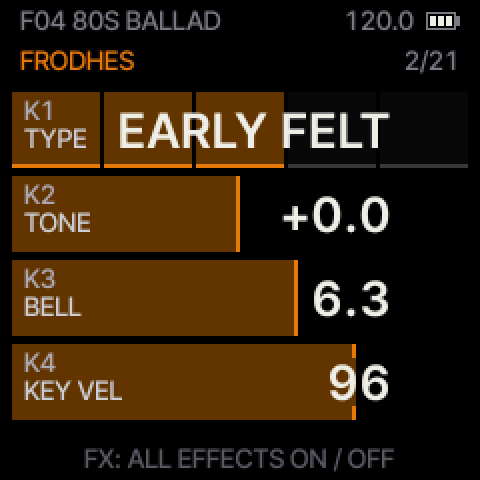
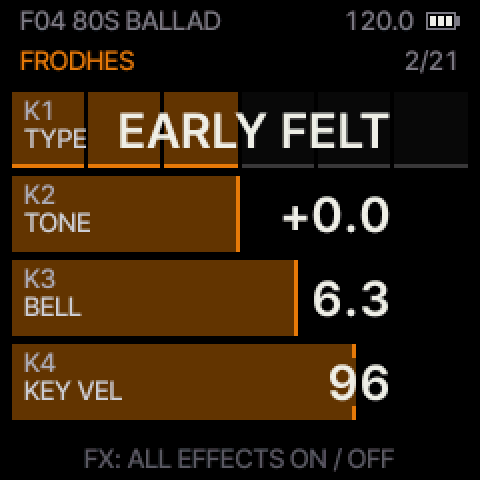
MARIMBA P6 (docs, DRAFT 0.9.4): manual, README, screenshots, emulator, release notes
- MANUAL: the MARIMBA section checked against params.c / eng_pages.h / presets.c / bars.c / marimba.json and
  tools/marimba_va.py (decays C2 1.7 / C4 0.7 / C6 0.3 / C7 0.1 s, bloom, MUTE 127 = 60 dB in ~0.06 s); MUTE kept
  from the last TYPE (5.0 from a Rhodes preset), the presets 0; no motor page; the 0.9.3 settings conversion; VOICE
  pages / named spots / ALGORITHM / CC 9, 116, 120-123 rows cover MARIMBA; offsets and CPU marked DRAFT in comments.
- README: piano.png ?v=0.9.4, bars.c and gen_bars.py in the Build map.
- Screenshots (framebuffer colours): piano-marimba, voice1-marimba, voice2-marimba (new); piano, piano-vibes (TYPE
  card now 6 blocks); tools/manual_shots.py makes the MARIMBA pages (CC 79 127 walk, F15).
- Emulator: ?selftest&marimba (CC 79 127), the guide's ALGORITHM line, the page description. Not published.
- docs/releases/v0.9.4.md: DRAFT from git log v0.9.3..marimba (no version bump, links unchanged).

Tested: make test (all ok), make pytest (1060 passed, 12 xfailed), test_docs_vs_code, web/build.sh + Playwright
Chromium/WebKit at 1400 and 390 px (?selftest&marimba rms -25.4 dB vs -27.6 VIBES / -28.2 Rhodes, no errors, no
horizontal scroll; FRODHES / VOICE 1/2 / VOICE 2/2 shown on MARIMBA, 21 pages). Not tested: the FM-1 (host only).
No firmware/ change.

Claude-Session: https://claude.ai/code/session_01Dz8MB3aMWQ3NXyFVXtBmgi

diff --git a/web/index.html b/web/index.html
@@ -4,7 +4,7 @@
 <meta charset="utf-8">
 <meta name="viewport" content="width=device-width, initial-scale=1">
 <title>Frodhes emulator</title>
-<meta name="description" content="Frodhes, a physically modelled Fender Rhodes for the M-VAVE FM-1, running in the browser: the same firmware code, compiled to WebAssembly.">
+<meta name="description" content="Frodhes, a physically modelled Fender Rhodes, vibraphone and marimba for the M-VAVE FM-1, running in the browser: the same firmware code, compiled to WebAssembly.">
 <link rel="preconnect" href="https://fonts.googleapis.com">
 <link rel="preconnect" href="https://fonts.gstatic.com" crossorigin>
 <link href="https://fonts.googleapis.com/css2?family=DotGothic16&display=swap" rel="stylesheet">
@@ -108,7 +108,7 @@
     <dt>KNOB 1–4</dt><dd>the 4 cards</dd>
     <dt>SELECT</dt><dd>pages</dd>
     <dt>PRESETS</dt><dd>sounds</dd>
-    <dt>ALGORITHM</dt><dd>type: rhodes / vibes</dd>
+    <dt>ALGORITHM</dt><dd>type: rhodes / vibes / marimba</dd>
     <dt>HOME</dt><dd>perform / main</dd>
     <dt>EDIT</dt><dd>chords</dd>
     <dt>ENV</dt><dd>phaser</dd>

diff --git a/web/app.js b/web/app.js
@@ -281,6 +281,7 @@ if (location.search.includes("selftest")) {
   const wait = () => {
     if (!M || performance.now() - t0 < 1500) return setTimeout(wait, 100);
     if (location.search.includes("vibes")) M._web_midi(0xB0, 79, 0);   // ?selftest&vibes: TYPE VIBES (CC 79)
+    if (location.search.includes("marimba")) M._web_midi(0xB0, 79, 127);   // ?selftest&marimba: TYPE MARIMBA (96..127)
     M._web_keys(1 << 7);                               // C4
     setTimeout(() => {
       const p = M._web_audio(16) >> 2, f = M.HEAPF32;

diff --git a/tools/manual_shots.py b/tools/manual_shots.py
@@ -3,9 +3,9 @@
 """Screenshots for the manual: the host build walks every page (and a few states) and saves PNGs to docs/manual/img/,
 then composes overview.png (PERFORM, VOICE, PHASER, COMPRESSOR; the README's Screens section: its intro picture is piano.png, the FRODHES page). The page list is the firmware's: a first host run
 walks SELECT and reads each page's name back (the engine's VOICE pages are dynamic: voice1.png, voice2.png on the
-Rhodes; voice1-vibes.png .. voice3-vibes.png on VIBES). Files left in the folder from pages that went are listed.
+Rhodes; voice1-vibes.png .. voice3-vibes.png on VIBES; voice1-marimba.png, voice2-marimba.png on MARIMBA, with
+piano-vibes.png / piano-marimba.png their FRODHES page). Files left in the folder from pages that went are listed.
 
-  tools/manual_shots.py           the "device look": the colours as the FM-1's panel shows them
   tools/manual_shots.py           the framebuffer's own colours (what the firmware writes: the default since
                                   2026-10-18, the user: the panel model's yellow is not what the eye sees)
   tools/manual_shots.py --device-look   the colours through the panel model below (camera-calibrated)
@@ -129,6 +129,8 @@ def main():
     PAGES = names(walk_pages())                             # the SELECT order, as the firmware has it
     vibes = names(walk_pages(["100 midi 0xB0 79 0"]), "-vibes")
     vibes = vibes[vibes.index("piano-vibes") + 1:vibes.index("comp-vibes")]   # VIBES' own pages (VOICE 1..3)
+    mrmb = names(walk_pages(["100 midi 0xB0 79 127"]), "-marimba")             # CC 79 96..127: MARIMBA
+    mrmb = mrmb[mrmb.index("piano-marimba") + 1:mrmb.index("comp-marimba")]   # MARIMBA's own (VOICE 1..2, no motor)
     L, shots, t = ["400 shot"], {400: "splash"}, 100
     if cards is not None:                                   # the rows' design variant (developer CC 11)
         L.insert(0, f"50 midi 0xB0 11 {int(cards)}")           # the start screen, before anything is touched
@@ -204,6 +206,15 @@ def main():
     for name in vibes:                                      # SELECT through them, a note on each (live readouts)
         L.append(f"{t} turn 0 1"); t += 100
         L.append(f"{t} keys 0x80"); L.append(f"{t + 300} keys 0x0"); t += 1700   # (the TYPE message has gone)
+        L.append(f"{t} shot"); shots[t] = name; t += 100
+    # MARIMBA (the bar engine's second TYPE): F15 MARIMBA, its FRODHES page (MALLET, TUBE) and VOICE 1/2, 2/2 (MUTE)
+    L.append(f"{t} midi 0xC0 14 0"); t += 100               # F15 MARIMBA (TYPE MARIMBA, MUTE 0)
+    L.append(f"{t} btn 8"); L.append(f"{t + 100} btn 8"); t += 200   # HOME twice: PERFORM, then the FRODHES page
+    L.append(f"{t} keys 0x80"); L.append(f"{t + 300} keys 0x0"); t += 1700
+    L.append(f"{t} shot"); shots[t] = "piano-marimba"; t += 100
+    for name in mrmb:
+        L.append(f"{t} turn 0 1"); t += 100
+        L.append(f"{t} keys 0x80"); L.append(f"{t + 300} keys 0x0"); t += 1700
         L.append(f"{t} shot"); shots[t] = name; t += 100
     L.append(f"{t} end")
     open(tag + ".txt", "w").write("\n".join(L) + "\n")

diff --git a/docs/MANUAL.md b/docs/MANUAL.md
@@ -3,12 +3,13 @@
 **A physically modelled Fender Rhodes, vibraphone and marimba for the M-VAVE FM-1.** Version 0.9.3.
 
 Frodhes turns the FM-1 into an electric piano. Every note is computed from the physics of a real Rhodes: the hammer
-strikes a tine, the tine rings against its tonebar, and a magnetic pickup turns the motion into sound. No recordings
+strikes a tine, the tine rings against its tonebar, and a magnetic pickup turns the motion into sound. Two struck-bar
+instruments, a vibraphone and a marimba, are computed the same way (section 5). No recordings
 are played back. Around the piano sits an effects chain modelled on the Yamaha reface CP: compressor, a resonant filter, drive,
 tremolo or wah, phaser, chorus, delay and reverb. For playing there is a PERFORM page with four assignable knobs,
 chord mode, a pattern recorder (sequencer), an arpeggiator, scales and tap tempo, USB-MIDI in and out and TRS MIDI in.
 
-![The FRODHES page: STAGE 77 with TONE, BELL and KEY VEL](manual/img/piano.png?v=0.9.3)
+![The FRODHES page: TYPE (here EARLY FELT), TONE, BELL and KEY VEL](manual/img/piano.png?v=0.9.4)
 
 ## Contents
 
@@ -37,6 +38,9 @@ chord mode, a pattern recorder (sequencer), an arpeggiator, scales and tap tempo
    on [thefirmwarehub.com](https://thefirmwarehub.com), its web installer works too (Chrome or Edge).
 4. The FM-1 restarts into Frodhes. If it does not come back by itself, switch it off and on.
 
+Settings and user presets saved by 0.9.3 are read as they are. 0.9.3 had 14 factory presets, so the saved preset
+number is moved past the two new MARIMBA presets once: the FM-1 comes back on the same sound it was left on.
+
 <img src="manual/img/splash.png?v=0.9.3" alt="The start screen" width="240" align="right">
 
 Frodhes starts with its own screen: the name and the version installed. It gives way to the PERFORM page after a moment,
@@ -57,8 +61,9 @@ DELAY · REVERB · TEMPO · SCALE · CHORD · ARPEGGIO · LFO · SEQUENCER · AS
 
 **The VOICE pages belong to the instrument.** Each TYPE brings its own controls, four to a page: the Rhodes types
 have two VOICE pages (VOICE 1/2: TONE, BARK, BELL, HAMMER; VOICE 2/2: DECAY, RELEASE, NOISE, TUNE), VIBES has three
-(VOICE 1/3: STRIKE, MALLET, TUBE, WEIGHT; 2/3: RING, DAMPER, NOISE, TUNE; 3/3: the motor). SELECT walks them in
-order; changing the TYPE changes the pages with it.
+(VOICE 1/3: STRIKE, MALLET, TUBE, WEIGHT; 2/3: RING, DAMPER, NOISE, TUNE; 3/3: the motor), MARIMBA two (VOICE 1/2:
+STRIKE, MALLET, TUBE, WEIGHT; 2/2: RING, MUTE, NOISE, TUNE). SELECT walks them in order; changing the TYPE changes
+the pages with it.
 
 **Reading a card.** Each card shows its knob (K1–K4, small), the control's name, and its value on the right in large
 figures, every value the same size and ending at the same place, with the unit beside it in small letters (Hz, kHz,
@@ -74,8 +79,9 @@ ms, s, dB, c for cents, %). What is drawn behind the value tells you at a glance
   to the tempo is a selector too: its note value.
 - **A switch** (ON / OFF: an effect on its page, the motor, TRS IN): a round light before the word, amber when ON, an
   empty ring when OFF.
-- **A knob with named spots** (VIBES' STRIKE: CENTRE, L/3, EDGE; MALLET: SOFT, YARN, CORD, RUBBER): a fader, with the
-  name when the knob is on one, else the number between two of them.
+- **A knob with named spots** (the bar instruments' STRIKE: CENTRE, L/3, EDGE; MALLET on VIBES: SOFT, YARN, CORD,
+  RUBBER, on MARIMBA: SOFT, MED, HARD, RUBBER): a fader, with the name when the knob is on one, else the number
+  between two of them.
 
 A few names too long for their card are written shorter, in the same large letters: on ASSIGN **TRM/WAH**, **TRM
 RATE**, **TRM SHP**, **PHA SPD**, **PHA FDBK**, **CHO SPD**, **DLY FDBK**, **CMP GAIN** (the compressor's make-up).
@@ -95,7 +101,7 @@ preset or switch an effect it briefly shows what happened, in large letters.
 | --- | --- |
 | **SELECT** (knob) | Next / previous page |
 | **K1 K2 K3 K4** | The four cards on the current page |
-| **ALGORITHM** (knob) | The TYPE (the four Rhodes and VIBES), from any page (on SEQUENCER: the step cursor) |
+| **ALGORITHM** (knob) | The TYPE (the four Rhodes, VIBES and MARIMBA), from any page (on SEQUENCER: the step cursor) |
 | **PRESETS** (knob) | Browse the sounds F01–F16 and your U01–U16 (loads when you stop turning; on SEQUENCER: bar by bar) |
 | **MASTER** (knob) | Volume |
 | **HOME** | PERFORM page; press again for the main page (titled FRODHES), and back |
@@ -143,7 +149,7 @@ Turning it back to 0 makes it dry again (the effect stays switched on; its butto
 
 The page after PERFORM (press **HOME** twice) carries the instrument's name as its title and holds the essentials.
 
-![The main page](manual/img/piano.png?v=0.9.3)
+![The main page](manual/img/piano.png?v=0.9.4)
 
 | Knob | Card | What it does |
 | --- | --- | --- |
@@ -432,7 +438,7 @@ choice is kept when you switch off (it belongs to the FM-1, not to a preset).
 | K3 | **USB VOL** | **KNOB**: the USB audio follows the MASTER knob, as the headphones do. **FIXED**: the USB audio always comes at full level, whatever the knob (and headphones plugged in) do; the headphone jack still follows MASTER |
 
 The bottom line shows the name and the version installed, the battery's reading (BAT, the raw value the battery
-segments are worked out from), and the audio engine's time per block (it must stay under 5800 µs; nine notes struck at once with every effect on reach about 4000-4200 on the Rhodes, 3500 on VIBES, measured).
+segments are worked out from), and the audio engine's time per block (it must stay under 5800 µs; nine notes struck at once with every effect on reach about 4000-4200 on the Rhodes, 3500 on VIBES and MARIMBA, measured).<!-- DRAFT: MARIMBA 3412-3444 us worst on the FM-1, build/marimba/p5/cpu-marimba.txt, commit 4a7e099 -->
 
 ### MIDI
 
@@ -451,7 +457,7 @@ the TRS jack: notes, every CC in the table below, program changes, clock, start 
 
 Two of the TYPEs are struck bars instead of a Rhodes: **VIBES**, the vibraphone, and **MARIMBA**. They share one
 engine and the same VOICE cards, each with its own bars, tubes and mallets; VIBES has a damper and a motor, MARIMBA
-neither (its DECAY page's second card is **MUTE**, the player's hand). Over MIDI, CC 79 picks between them.
+neither (its VOICE 2/2's second card is **MUTE**, the player's hand). Over MIDI, CC 79 picks between them.
 
 ### VIBES: the vibraphone
 
@@ -462,7 +468,7 @@ times higher), the tube that takes a moment to build up under the bar, and the m
 Rhodes type and VIBES fades out what is still ringing, held notes too; a note still held plays again on the new type
 the next time it is struck (a MIDI note-on, or a key on the same note).
 
-![The main page on VIBES](manual/img/piano-vibes.png?v=0.9.3)
+![The main page on VIBES](manual/img/piano-vibes.png?v=0.9.4)
 
 The main page's middle cards belong to the engine: on VIBES they are **MALLET** (the same as VOICE 1/3's MALLET)
 and **MOTOR** (on / off, the same as VOICE 3/3's first card); on a Rhodes type they are **TONE** and **BELL** (DRIVE
@@ -541,53 +547,63 @@ vibraphone's range.
 
 ### MARIMBA
 
-<!-- DRAFT (MARIMBA P6): written from the plan and today's firmware against the sync-1 stub tables; every number
-marked "about" is the design target (MARIMBA PLAN §2) and is checked against the real tables after sync 2 and on the
-FM-1 (P5) before this text is final. Screenshots follow the real tables. -->
+<!-- DRAFT 0.9.4 (MARIMBA P6): checked against the code (params.c, eng_pages.h, presets.c, bars.c, marimba.json) and
+the host gate (tools/marimba_va.py: the decays, the bloom, the hand mute). Open until the user's review: the level
+offset (+2.5 dB, marimba.json calib.st77_offset_db, provisional), the decay lengths (marimba.json T1b), the KNOWN
+items of tools/marimba_scan.py. -->
 
 Turn **ALGORITHM** (or the TYPE card) to **MARIMBA** and the FM-1 plays a concert marimba: rosewood bars struck with
 yarn mallets, each over its tuned tube. It is the same kind of instrument as the vibraphone, computed the same way
 (the bar's own modes, here tuned 1 : 4 : 10, the tube, the mallet's contact), but it sounds very different: wood
-instead of aluminium, a warm, short note, about **1.5 s at C2, 1 s around C4 and a tenth of a second at the top**.
-Its long tubes make the low notes ring **longer** and bloom a little after the strike; at the top the tubes barely do
-anything. A marimba has **no damper and no motor**: a note rings out by itself, and the player stops it with a hand.
-Switching between VIBES and MARIMBA (or a Rhodes type) fades out what is still ringing.
+instead of aluminium, a warm, short note. A note rings for about **1.7 s at C2, 0.7 s at C4, 0.3 s at C6 and a
+tenth of a second at C7** (the default cards, until it is 60 dB down). Below C4 the long tubes make the notes ring
+**longer** and **bloom**: the low note swells for a moment after the strike (about 0.15 s at C2, 0.05 s at C4); from
+C5 up the note starts at its loudest. A marimba has **no damper and no motor**: a note rings out by itself, and the
+player stops it with a hand. Switching between VIBES and MARIMBA (or a Rhodes type) fades out what is still ringing,
+held notes too; a note still held plays again on the new type the next time it is struck.
 
-The main page's middle cards on MARIMBA are **MALLET** (VOICE 1/2's MALLET) and **TUBE** (VOICE 1/2's TUBE).
-MARIMBA has two VOICE pages, **VOICE 1/2** (the strike) and **VOICE 2/2** (how the bars ring and stop), and no MOTOR
-page: SELECT goes from VOICE 2/2 straight to COMPRESSOR.
+![The main page on MARIMBA](manual/img/piano-marimba.png?v=0.9.4)
+
+The main page's middle cards on MARIMBA are **MALLET** (the same as VOICE 1/2's MALLET) and **TUBE** (VOICE 1/2's
+TUBE). MARIMBA has two VOICE pages, **VOICE 1/2** (the strike) and **VOICE 2/2** (how the bars ring and stop), and no
+motor page: SELECT goes from VOICE 2/2 straight to COMPRESSOR. VOICE 1/2 acts on the next strike.
+
+![VOICE 1/2 on MARIMBA](manual/img/voice1-marimba.png?v=0.9.4)
 
 | Knob | Card | What it does on MARIMBA |
 | --- | --- | --- |
-| K1 | **STRIKE** | Where the mallet hits the bar: **CENTRE** (left end), a fuller, rounder fundamental; **L/3** (the middle, the usual spot); toward the **EDGE**, the bar's twisting modes ring in |
-| K2 | **MALLET** | The mallet: **SOFT** (0) soft yarn, a dark, round note even when you play hard; **MED** (42) medium yarn; the middle (64, the default) a medium-hard yarn; **HARD** (85) hard yarn, clearer, the overtones ring; **RUBBER** (127) a bright, hard, almost xylophone-like click. The card shows the mallet's name, or a number between two of them |
-| K3 | **TUBE** | How much the tube rings with the bar: 0 is a bare bar (quieter and thinner); up is a fuller, louder note; on the low bars the tube also makes the note ring longer and bloom just after the strike; on the top bars it changes little |
-| K4 | **WEIGHT** | The mallet's weight: light is brighter and quieter; heavy is darker, with more body. How hard you play (KEY VEL, MIDI velocity) stays the strike's speed: a harder strike is louder and brighter |
+| K1 | **STRIKE** | Where the mallet hits the bar: **CENTRE** (left end), a fuller, rounder fundamental; **L/3** (the middle of the knob, the usual spot); toward the **EDGE** (right), the bar's twisting modes ring in. It is heard most on the low and middle bars; on the top bars the mallet barely excites anything but the fundamental, wherever it hits |
+| K2 | **MALLET** | The mallet: **SOFT** (0) soft yarn, a dark, round note even when you play hard; **MED** (42) medium yarn; the middle (64, the default, shown as 5.0) between medium and hard yarn; **HARD** (85) hard yarn, clearer, the overtones ring; **RUBBER** (127) a bright, hard, almost xylophone-like click. The card shows the mallet's name, or a number between two of them |
+| K3 | **TUBE** | How much the tube rings with the bar: 0 is a bare bar (quieter and thinner, no bloom); up is a fuller, louder note. Below C4 the tube also makes the note ring longer and bloom just after the strike; higher up, as on a vibraphone, it makes the note louder and shorter (at the top about a third shorter) |
+| K4 | **WEIGHT** | The mallet's weight: light is quieter, heavy louder, with more body. How hard you play (KEY VEL, MIDI velocity) stays the strike's speed: a harder strike is louder and brings the overtones up |
+
+![VOICE 2/2 on MARIMBA](manual/img/voice2-marimba.png?v=0.9.4)
 
 | Knob | Card | What it does on MARIMBA |
 | --- | --- | --- |
-| K1 | **RING** | How long a struck bar rings: from a quarter to about four times the normal time |
-| K2 | **MUTE** | The player's hand when you let go of a key: **0** (MUTE 0.0) lets the note ring out as on a real marimba; up, the hand stops it sooner; 127 stops it in a few hundredths of a second |
+| K1 | **RING** | How long a struck bar rings: from a quarter to about four times the normal time (the low notes' tube too) |
+| K2 | **MUTE** | The player's hand when you let go of a key: **0** (MUTE 0.0) lets the note ring out as on a real marimba; up, the hand stops it sooner; at 10.0 it is 60 dB down well within a tenth of a second |
 | K3 | **NOISE** | The mallet's contact: a soft tick at the start of the note (no damper, so nothing at the key-up) |
 | K4 | **TUNE** | Fine tuning, ±50 cents (many marimbas are tuned to A = 442 Hz: +8) |
 
 **MUTE, not DAMPER.** On VIBES the second card of VOICE 2/3 is the DAMPER, the felt bar that stops the notes when you
 let go. A marimba has no damper, so on MARIMBA the same card is **MUTE**: how firmly your hand stops a note at the
 key-up. MUTE 0 means no hand: every note rings out. It is the same setting underneath (MIDI CC 103, saved with the
-preset), shown and heard for the instrument you play.
+preset), shown and heard for the instrument you play. Turning the TYPE to MARIMBA keeps the card where it was (the
+other factory presets have it at 5.0: on MARIMBA a half mute); the MARIMBA presets start at 0.
 
-**The pedal** keeps its meaning: held (**REC**, or CC 64 over MIDI, half-pedal too), the hand never lands, whatever MUTE
-says; let go, MUTE decides. **All Notes Off** (CC 123) still stops everything.
+**The pedal** keeps its meaning: held (**REC**, or CC 64 over MIDI, half-pedal too), the hand never lands, whatever
+MUTE says; let go, MUTE decides. **All Notes Off** (CC 123 / 120) stops everything, MUTE 0 too.
 
-**No motor.** The MOTOR page belongs to VIBES. On MARIMBA the motor's MIDI CCs (47-51) are accepted and kept for VIBES,
-and change nothing in the marimba's sound.
+**No motor.** The motor belongs to VIBES. On MARIMBA its MIDI CCs (47-51) are accepted and kept for VIBES, and change
+nothing in the marimba's sound.
 
-**The range.** A concert marimba has five octaves, **C2 to C7**; that is where MARIMBA is measured. Every other MIDI note
-plays too, extended from the same physics. The FM-1's keys (F3–G5) sit in the marimba's middle.
+**The range.** A concert marimba has five octaves, **C2 to C7**; that is where MARIMBA is measured. Every other MIDI
+note plays too (A0-C8), extended from the same physics. The FM-1's keys (F3–G5) sit in the marimba's middle.
 
 **Presets:** **F15 MARIMBA** (the default mallet and tube, MUTE 0: rings out, a little reverb) and **F16 MRMB SOFT**
-(soft yarn, a heavier mallet, more room and a little delay). **Over MIDI:** CC 79 from 96 to 127 selects MARIMBA
-(0–95 VIBES); Program Change 14 / 15 loads F15 / F16. **Polyphony:** 9 notes, as the Rhodes.
+(a soft yarn mallet, heavier, MUTE 0, more reverb and a little delay). **Over MIDI:** CC 79 from 96 to 127 selects
+MARIMBA (0–95 VIBES); Program Change 14 / 15 loads F15 / F16. **Polyphony:** 9 notes, as the Rhodes.
 
 ## 6. Presets
 
@@ -606,8 +622,8 @@ starts (or if its settings are ever lost), it plays **F01 STAGE 77**.
 | F13 VIBE MOTOR | F14 VIBES DRY | F15 MARIMBA | F16 MRMB SOFT |
 
 The Rhodes presets F01–F12 are level-matched: each one's LEVEL (SETUP) brings it to about the loudness of F01, so
-browsing does not jump in volume (VIBES, F13–F14, sits 2.5 dB above, as the type does; MARIMBA, F15–F16, plays at
-the level of its type, set on the FM-1's headphone jack as VIBES's was).<!-- DRAFT: the MARIMBA offset is P5's number -->
+browsing does not jump in volume (VIBES, F13–F14, sits 2.5 dB above, as the type does; so does MARIMBA, F15–F16,
+for now).<!-- DRAFT: MARIMBA's +2.5 dB is marimba.json calib.st77_offset_db, provisional: the P5 jack session (build/marimba/p5/jack2.log: SNR 3.8 dB under ST77) and the user decide the final offset -->
 
 **Saving:** press **SAVE**. The bottom line asks where; turn **PRESETS** or **K1** to pick U01–U16; press **SAVE**
 again to store it, or **HOME** (or **OCT−**) to cancel. The name is made from the type and the effects that are on
@@ -682,7 +698,7 @@ voice, so repeated notes do not use up voices. A 10th note takes over the quiete
 oldest held one, with a short fade (1.5 ms) so there is no click. The audio also has a safety guard: if it ever ran
 late, the quietest released note would be faded out rather than letting the sound break up. In testing the worst
 case (9 low notes at full velocity with the pedal and every effect on) uses about 4.0-4.2 ms on the Rhodes and 3.5 ms
-on VIBES of the 5.8 ms available per audio block (measured), and the guard never acts.<!-- DRAFT: MARIMBA's number after P5 (hil_cpu --engine marimba) -->
+on VIBES and MARIMBA of the 5.8 ms available per audio block (measured), and the guard never acts.<!-- DRAFT: MARIMBA 3412-3444 us worst, build/marimba/p5/cpu-marimba.txt (commit 4a7e099) -->
 
 ## 11. Sound and volume tips
 
@@ -709,7 +725,7 @@ The TRS jack is MIDI in only. **Program Change** 0–15 loads F01–F16, 16–31
 | --- | --- | --- | --- |
 | 64 | Sustain (half-pedal) | 80 | TYPE (0–31 STAGE, 32–63 SUITCASE, 64–95 FELT, 96–127 DYNO) |
 | 47 / 48 | VIBES MOTOR on (≥ 64) / DEPTH (no effect on MARIMBA) | 49 / 50 / 51 | VIBES MOTOR SPEED / SHAPE / SYNC |
-| 79 | TYPE of the bar instruments: 0–95 VIBES, 96–127 MARIMBA | 9 | Developer: VIBES mode cap (0 = automatic, 1–49 = 0–48 upper modes, ≥ 50 = none; not saved) |
+| 79 | TYPE of the bar instruments: 0–95 VIBES, 96–127 MARIMBA | 9 | Developer: the bar instruments' mode cap, VIBES and MARIMBA (0 = automatic, 1–49 = 0–48 upper modes, ≥ 50 = none; not saved) |
 | 10 | Developer: reset (≥ 64): every LFO, the delay / reverb lines and the noise to their start state (for comparing recordings) | | |
 | 81 | DRIVE (AMOUNT) | 91 | REVERB (MIX) |
 | 82 / 83 / 84 | DRIVE TONE / MIX / on (≥ 64) | 92 / 93 / 94 | REVERB DECAY / TONE / PRE-DELAY (0–80 ms) |
@@ -722,9 +738,9 @@ The TRS jack is MIDI in only. **Program Change** 0–15 loads F01–F16, 16–31
 | 108 / 109 | COMP ATTACK / RELEASE | 110 | LEVEL (64 = 0 dB) |
 | 111 | All effects off (≥ 64) / on | 28–31 | TONE / BARK / BELL / HAMMER |
 | 114 | USB VOL: knob (< 64) / fixed | 24 / 105 | Reserved (accepted and saved, no effect yet) |
-| 116 | Developer: CPU load query (replies on CC 115–118; VIBES also 112 / 113: the lowest mode cap / the most live upper modes) | 119 | Developer: raw voice (≥ 64 bypasses every effect and the limiter; FX does not undo it) |
+| 116 | Developer: CPU load query (replies on CC 115–118; also 112 / 113, the bar instruments': the lowest mode cap / the most live upper modes) | 119 | Developer: raw voice (≥ 64 bypasses every effect and the limiter; FX does not undo it) |
 | 4 | Developer: battery query (replies CC 4 / 5 = the reading: value / 8, value mod 8; CC 6 = the segments shown, 4 = USB power) | 8 | Developer: a simulated battery reading (value x 8; 0 = the real one) |
-| 102 / 103 / 104 | DECAY / RELEASE (VIBES: DAMPER; MARIMBA: MUTE) / NOISE | 120 / 123 | All notes off: every note held over MIDI is let go and rings out through the dampers, every tail ending within 8 s (keys still held on the FM-1, the arpeggiator's HOLD and the sequencer keep going) |
+| 102 / 103 / 104 | DECAY / RELEASE (VIBES: DAMPER; MARIMBA: MUTE) / NOISE | 120 / 123 | All notes off: every note held over MIDI is let go and rings out through the dampers (MARIMBA: stopped by the hand), every tail ending within 8 s (keys still held on the FM-1, the arpeggiator's HOLD and the sequencer keep going) |
 | 56 / 57 | CHORD TYPE (0–14 as listed) / INVERSION (0–3) | 58 / 59 | CHORD VOICING (0–2) / STRUM (0–12 × 5 ms) |
 | 60 / 61 | SEQUENCER play (≥ 64) / stop, BARS (1–16) | 62 / 63 | SEQUENCER QUANT (0–5) / recording (≥ 64) |
 | 43 / 44 | SEQUENCER CLEAR / UNDO (≥ 64) | 45 / 46 | SEQUENCER ERASE (≥ 64 on) / SWING (50–75) |

diff --git a/docs/releases/v0.9.4.md b/docs/releases/v0.9.4.md
@@ -1,30 +1,59 @@
-**DRAFT (not released): Frodhes 0.9.4**: notes collected while MARIMBA is built. The numbers in the MARIMBA entries are
-the design targets; they are filled in from the real tables (sync 2) and the FM-1 session (P5) before release.
+> **DRAFT, not released yet.** Edit these notes, then delete this line. (MARIMBA P6: written from `git log v0.9.3..marimba`; the user validates first.)
 
-### New
-- **MARIMBA**, a sixth instrument TYPE: a concert marimba computed from the physics of rosewood bars tuned 1 : 4 : 10
-  over their tubes, struck by yarn or rubber mallets. The low notes ring longer and bloom just after the strike (the
-  long tubes), the top ones are short and dry; five authentic octaves, C2 to C7 (every MIDI note plays). No samples.
-  It shares the vibraphone's engine and cards (VOICE 1/2: STRIKE, MALLET, TUBE, WEIGHT; VOICE 2/2: RING, MUTE,
-  NOISE, TUNE); the MALLET card names the marimba's mallets: SOFT, MED, HARD, RUBBER.
-- **MUTE** (MARIMBA's VOICE 2/2 K2, the same setting as VIBES's DAMPER, CC 103): a marimba has no damper, so the card
-  is the player's hand at the key-up. 0 lets every note ring out (the factory MARIMBA presets start there); up, the
-  hand stops the note sooner. The pedal still holds; All Notes Off still stops everything.
-- No motor on MARIMBA: no MOTOR page (SELECT goes from VOICE 2/2 to COMPRESSOR); the FRODHES page's K3 is TUBE;
-  the motor's CCs 47-51 change nothing there.
-- Two factory presets, **F15 MARIMBA** and **F16 MRMB SOFT** (16 factory presets now); Program Change 14 / 15. Settings
-  saved by 0.9.3 still point at the same preset (the stored preset index is converted once).
+**Frodhes 0.9.4**: a physically modelled Fender Rhodes, vibraphone and marimba for the M-VAVE FM-1. Every note is computed live from the mechanics of the instrument; there are no samples.
 
-### Changed
-- MIDI CC 79 (the bar TYPEs): 0..95 selects VIBES as before (0 and 64 included); **96..127 now selects MARIMBA**
-  (in 0.9.3 every CC 79 value selected VIBES).
+**Download:** `frodhes-0.9.4.fwsc` below. **Try it first in your browser:** https://leonardomirabal.github.io/frodhes/
 
-### Fixed
-- A note held through a TYPE change to the other engine (a Rhodes type <-> VIBES / MARIMBA, or VIBES <-> MARIMBA),
-  whose sound the change fades out, was silent when struck again before being let go (a second MIDI note-on, or an
-  FM-1 key on a note a MIDI note still held); it now plays on the new type (0.9.3 had it too).
+### Install
+```sh
+pip install mido python-rtmidi
+python3 tools/fm1_install.py frodhes-0.9.4.fwsc
+```
+If anything goes wrong, switch the FM-1 off, hold **OCT−** and switch it on to get the USB rescue, then install again.
+Settings and user presets saved by 0.9.3 carry over, and the FM-1 comes back on the sound it was left on.
+
+### New in 0.9.4
+- **MARIMBA, a concert marimba.** A sixth TYPE (ALGORITHM, or K1 on the main page): rosewood bars tuned 1 : 4 : 10,
+  each over its tube, struck by yarn or rubber mallets, computed like the vibraphone (no samples). The low notes ring
+  longer and swell for a moment just after the strike (the long tubes), the top ones are short and dry. Five
+  octaves, C2 to C7, are the real instrument's; every other MIDI note plays too.
+  - Its own VOICE pages: **VOICE 1/2** STRIKE, MALLET (**SOFT**, **MED**, **HARD**, **RUBBER**), TUBE, WEIGHT;
+    **VOICE 2/2** RING, **MUTE**, NOISE, TUNE. The main page's middle cards are MALLET and TUBE.
+  - **MUTE** instead of a damper (a marimba has none): your hand at the key-up. 0 lets every note ring out (the
+    MARIMBA presets start there), up stops it sooner. The pedal still holds; All Notes Off stops everything. It is
+    the same setting as VIBES' DAMPER (CC 103), so a sound saved on one keeps its value on the other.
+  - No motor: no motor page (SELECT goes from VOICE 2/2 to COMPRESSOR), and the motor's CCs 47–51 change nothing on
+    MARIMBA (they are kept for VIBES).
+  - Two new presets: **F15 MARIMBA** (rings out, a little reverb) and **F16 MRMB SOFT** (soft yarn, a heavier mallet,
+    more reverb and a little delay). Program change 14 / 15.
+  - It plays at VIBES' level, 2.5 dB above the Rhodes types, for now.
+
+### Changes
+- **MIDI CC 79** (the bar TYPEs): **0–95 selects VIBES** as before (0 and 64 included), **96–127 now selects MARIMBA**
+  (in 0.9.3 every value selected VIBES). CC 80 still picks the four Rhodes types.
+- **16 factory presets** (F01–F16); Program Change 0–15 loads them, 16–31 the user presets U01–U16 as before. The
+  preset number saved by 0.9.3 (14 factory presets) is moved once, so you come back on the same sound.
+- The developer CCs 9 (the mode cap) and 116's bar replies (112 / 113) work on MARIMBA as on VIBES.
+
+### Fixes
+- A note held through a TYPE change to another engine (a Rhodes type to VIBES or MARIMBA and back, or VIBES to
+  MARIMBA), whose sound the change fades out, stayed silent when struck again before being let go (a second MIDI
+  note-on, or an FM-1 key on a note MIDI still held). It now plays on the new type. 0.9.3 had this too.
+
+### Tools
+- `tools/marimba_va.py` (Gate VA-M: the marimba's model against its numbers before any C), `tools/marimba_scan.py`
+  (the host scan, the rolls and stress cases, the musicality checks M1–M7), `tools/hil_scan.py --marimba` (the FM-1
+  suites over USB and the jack), `tools/hil_cpu.py --engine marimba`, `tools/mrb_ref_measure.py` (numbers only from
+  reference recordings, never copied, played or embedded); `tools/gen_bars.py` builds both bar types (`--vibes-only`
+  still writes 0.9.3's header); `tools/hil_jack.py`: a tail that ends by its own decay is judged at its end, the after-mute
+  check high-passed at 20 Hz.
+- `tools/manual_shots.py` makes the MARIMBA screenshots; the emulator's `?selftest&marimba`.
 
 ### Tested
-- Host: `make test`, `make pytest` (the MARIMBA tests: cards and controls audible, the scan profile and the
-  musicality gate M1-M7, `tools/marimba_scan.py`), `tools/gate_r.py` (every Rhodes and VIBES render byte-identical).
-- FM-1: to do in P5 (`tools/hil_scan.py --marimba`, `tools/hil_cpu.py`, the jack).
+- Host: `make test`, `make pytest` (the MARIMBA tests: Gate VA-M, every card and control audible, the scan and the
+  musicality checks, the compatibility with 0.9.3 settings, the held-key fix), every Rhodes and VIBES render byte for
+  byte as in 0.9.3 (`tests/baselines/renders.sha256`).
+- FM-1: to be completed with the release build (P5 / P7: `tools/hil_scan.py --marimba`, `tools/hil_cpu.py --engine
+  marimba`, the jack session).
+
+Full manual: https://github.com/leonardoMirabal/frodhes/blob/main/docs/MANUAL.md · Built on [Dinghy](https://github.com/zvenson/dinghy). GPL-3.0.

diff --git a/README.md b/README.md
@@ -2,7 +2,7 @@
 
 **A physically modelled Fender Rhodes, vibraphone and marimba for the M-VAVE FM-1.**
 
-![Frodhes on the FM-1: the FRODHES page (TYPE, TONE, BELL, KEY VEL)](docs/manual/img/piano.png?v=0.9.3)
+![Frodhes on the FM-1: the FRODHES page (TYPE, TONE, BELL, KEY VEL)](docs/manual/img/piano.png?v=0.9.4)
 
 Frodhes turns the FM-1 into an electric piano, a vibraphone and a marimba. Every note is computed live from the mechanics of the
 instrument: on a Rhodes a hammer strikes a tine, the tine rings against its tonebar and a magnetic pickup turns the
@@ -87,9 +87,10 @@ USB-MIDI, USB audio, the panel, the screen and settings.
 ```
 firmware/src/frodhes.c    <- the app: keys, MIDI, sustain, settings, the main loop
 firmware/src/rhodes.c     <- the voice engine: tine and tonebar, hammer, pickup, damper
+firmware/src/bars.c       <- the bar instruments (VIBES, MARIMBA): bar modes, tube, mallet, damper / hand, motor
 firmware/src/fx.c         <- the effects and the master (limiter, silence gate)
 firmware/src/ui.c         <- the pages;  params.c the parameters;  tempo.c tempo and scales;  presets.c
-firmware/gen/             <- tables generated by tools/gen_rhodes.py and tools/gen_fx_tables.py
+firmware/gen/             <- tables generated by tools/gen_rhodes.py, tools/gen_bars.py and tools/gen_fx_tables.py
 firmware/src/platform.c   <- Dinghy's plumbing (boot, USB, updates, audio ISR, settings)
 ```
 
